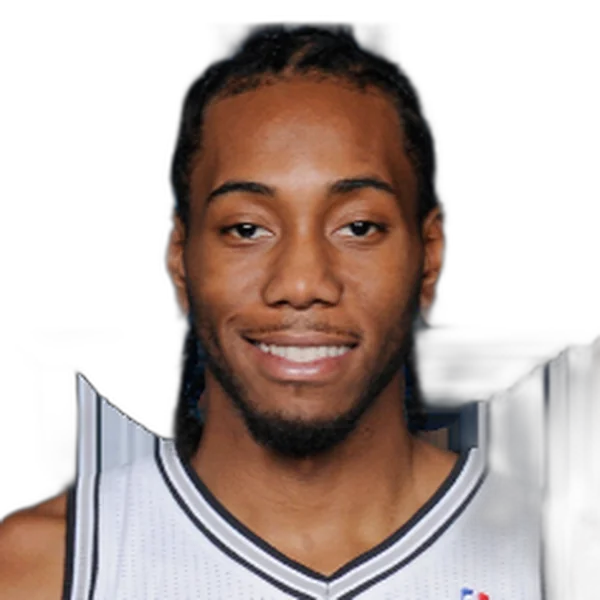
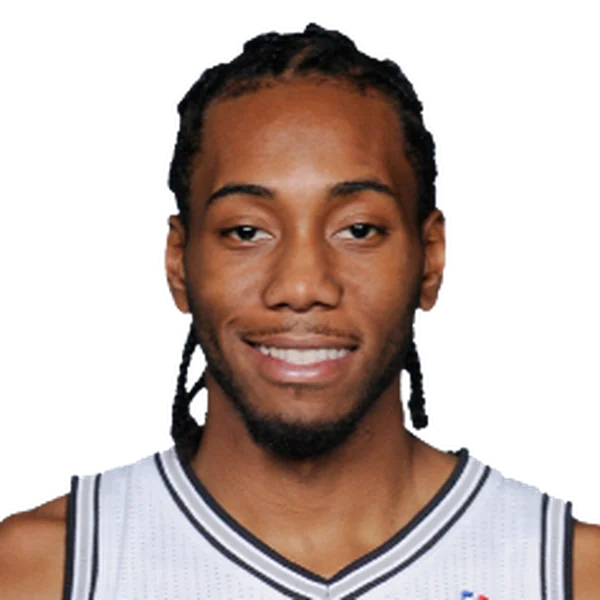
Portrait tool keeps existing transparency; redo Kawhi Spurs/Clippers; sw v415
Claude-Session: https://claude.ai/code/session_01MwZ67aepJJhUZJuSBZ7izX

diff --git a/sw.js b/sw.js
@@ -1,5 +1,5 @@
 /* Offline support: always try the network first, fall back to the cache. */
-var CACHE = 'nba-eras-v414';
+var CACHE = 'nba-eras-v415';
 var SHELL = [
   './',
   'index.html',

diff --git a/tools/make-portrait.py b/tools/make-portrait.py
@@ -30,9 +30,14 @@ def face_box(im):
 SESSION = None
 def main(src, pid, outdir='assets/players'):
     global SESSION
-    im = Image.open(src).convert('RGB')
-    SESSION = SESSION or new_session('u2net')
-    cut = remove(im, session=SESSION).convert('RGBA')
+    raw = Image.open(src)
+    if raw.mode in ('RGBA', 'LA', 'P') and np.array(raw.convert('RGBA'))[:, :, 3].min() == 0 \
+            and (np.array(raw.convert('RGBA'))[:, :, 3] == 0).mean() > 0.05:
+        cut = raw.convert('RGBA')   # already cut out: keep its own transparency
+    else:
+        im = raw.convert('RGB')
+        SESSION = SESSION or new_session('u2net')
+        cut = remove(im, session=SESSION).convert('RGBA')
     box = face_box(cut)
     if box is None:
         alpha = np.array(cut)[:, :, 3]
